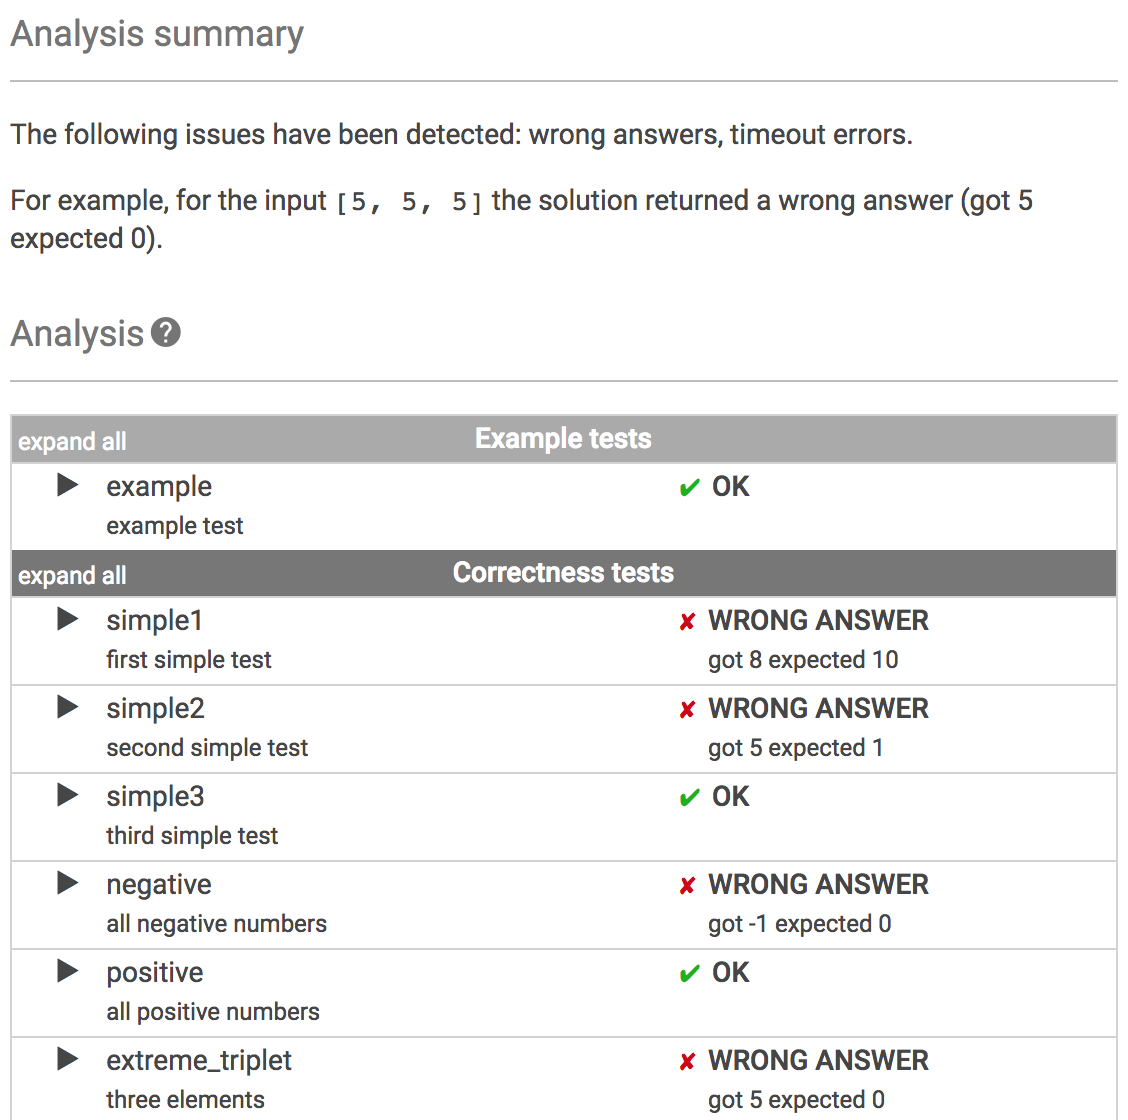
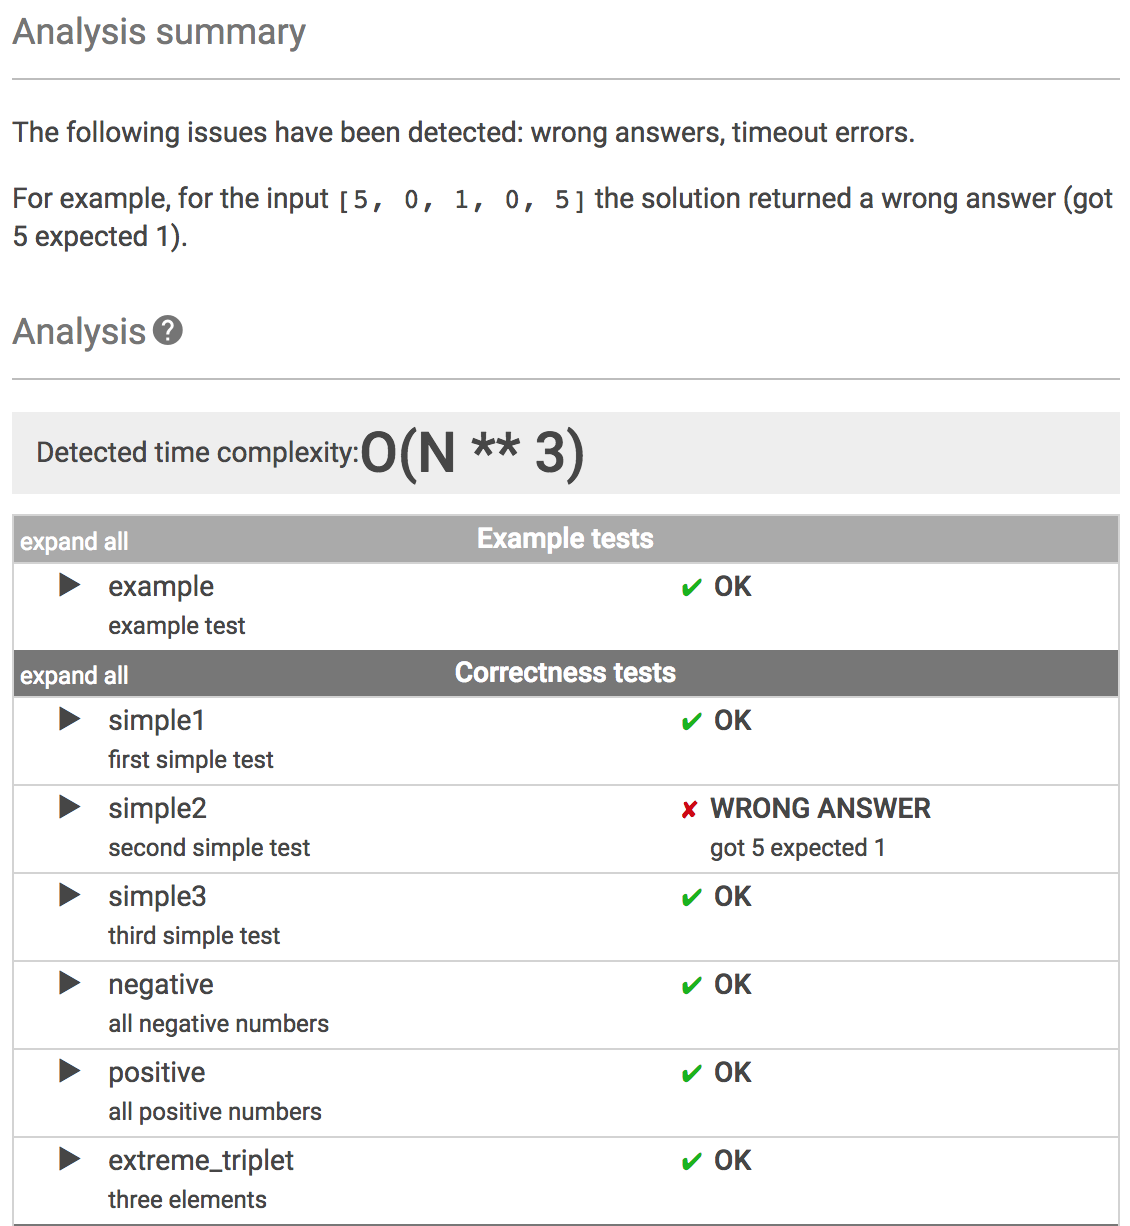
Result_2 for MaxDoubleSliceSum of Lesson_9_MaximumSliceProblem.

Changed region(s): [[0.0, 0.3438, 0.9929, 1.0], [0.0, 0.0, 0.9929, 0.2188], [0.0, 0.25, 0.1862, 0.3125]]

diff --git a/Lessons/9_MaximumSliceProblem/Tasks_MaxDoubleSliceSum/Answer.php b/Lessons/9_MaximumSliceProblem/Tasks_MaxDoubleSliceSum/Answer.php
@@ -8,11 +8,16 @@ function solution($A) {
 
     if ($arrLength < 3 || $arrLength > 100000) return 0;
 
+    if ($arrLength === 3) return 0;
+
+    $postiveCount = 0;
     $max = 0;
 
     for ($s = 0; $s < $arrLength; $s++)
     {
         if ($A[$s] < -10000 || $A[$s] > 10000) return 0;
+        
+        if ($A[$s] > 0) $postiveCount++;
 
         if ($s === 0 || $s + 1 === $arrLength) continue;
 
@@ -20,6 +25,8 @@ function solution($A) {
 
         if ($A[$s] > $max) $max = $A[$s];
     }
+
+    if ($postiveCount === 0) return 0;
 
     $iLimit = $arrLength - 3;
 
@@ -49,10 +56,22 @@ function solution($A) {
 
             $rightSum = 0;
 
-            // get $k elements from right
-            for ($k = 1; $k < $kLimit; $k++)
+            if ($j === 0)
             {
-                $rightSum += $A[$startRight + $k];
+                $kStart = 1;
+            }
+            else
+            {
+                $kStart = 0;
+            }
+
+            // get $k elements from right
+            for ($k = $kStart; $k < $kLimit; $k++)
+            {
+                if ($k !== 0)
+                {
+                    $rightSum += $A[$startRight + $k];
+                }
 
                 if ($leftSum + $rightSum > $max)
                 {
